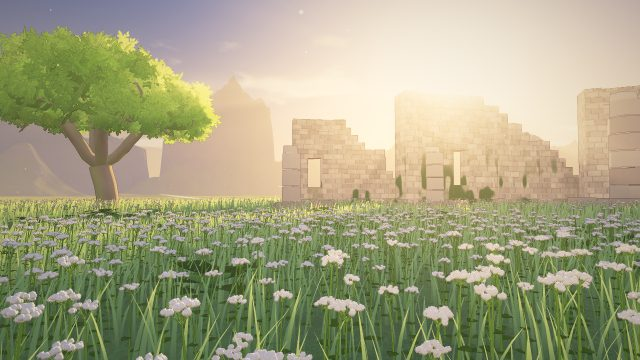
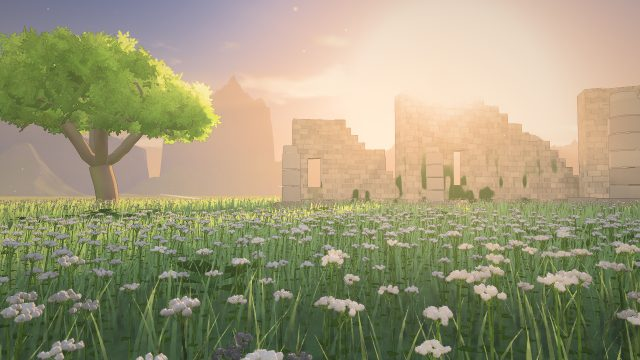
Match TotK's Hateno: measured palette, ambient occlusion, cooler daylight
Sampled against TotK screenshots (lit plaster ~(230,215,192) sat 0.1-0.2,
roofs pale peach ~(220,190,160), limestone near white, frame mean
(0.58,0.65,0.56)) our village was saturated ochre, dark terracotta, brown
stone, and yellow overall (0.57,0.56,0.47).

- Palette: cream lime-wash, pale salmon-to-peach clay tiles in 50cm courses
  (texture and geometry), near-white limestone, grey-brown timber, slate
  shutters, cream yard walls; softer weathering.
- Screen-space ambient occlusion (half resolution, depth-only SAO with a
  depth-aware blur; grass receives but does not cast; weaker in shade);
  m.env({ ao }), off on phones.
- Highlight shoulder on the brightest channel (keeps a sunlit wall's hue
  instead of squeezing it to white), slightly lifted toon blacks, cooler
  teal shade tint.
- Village scene: near-noon light, cyan haze, greener lawns, bushes along
  the ledges; overview thumbnails regenerated. Field reference scenes stay
  within 0.07 of BotW in darks.

Claude-Session: https://claude.ai/code/session_01ErwcWZg1wdM3uMZg5iqckh

diff --git a/src/render/post.js b/src/render/post.js
@@ -1,4 +1,5 @@
-// Post: outlines, bloom, screen-space god rays toward the sun, highlight shoulder, split-tone grade and vignette.
+// Post: ambient occlusion, outlines, bloom, screen-space god rays toward the sun, highlight shoulder, split-tone grade
+// and vignette.
 // Scene alpha: 0 sky, 0.5 grass (no outline), 1 everything else.
 import * as THREE from 'three';
 import { clamp, smooth } from '../core/math.js';
@@ -21,6 +22,7 @@ export function createPost(renderer, scene, camera) {
   rtScene.depthTexture = depth24(renderer);
   A2C.value = rtScene.samples > 0 ? 1 : 0;
   const rtA = new THREE.WebGLRenderTarget(4, 4, { type, depthBuffer: false }), rtB = new THREE.WebGLRenderTarget(4, 4, { type, depthBuffer: false }), rtC = new THREE.WebGLRenderTarget(4, 4, { type, depthBuffer: false });
+  const rtAO = new THREE.WebGLRenderTarget(4, 4, { depthBuffer: false }), rtAO2 = new THREE.WebGLRenderTarget(4, 4, { depthBuffer: false });
   const qCam = new THREE.OrthographicCamera(-1, 1, 1, -1, 0, 1), qScene = new THREE.Scene(), quad = new THREE.Mesh(new THREE.PlaneGeometry(2, 2));
   quad.frustumCulled = false; qScene.add(quad);
   const vs = `varying vec2 vUv; void main(){ vUv = uv; gl_Position = vec4(position.xy, 0.0, 1.0); }`;
@@ -32,6 +34,46 @@ void main(){ vec3 s = texture2D(tSrc, vUv).rgb * 0.227;
   s += (texture2D(tSrc, vUv + uDir * 1.385).rgb + texture2D(tSrc, vUv - uDir * 1.385).rgb) * 0.316;
   s += (texture2D(tSrc, vUv + uDir * 3.231).rgb + texture2D(tSrc, vUv - uDir * 3.231).rgb) * 0.070;
   gl_FragColor = vec4(s, 1.0); }`, { tSrc: { value: null }, uDir: { value: new THREE.Vector2() } });
+  // Ambient occlusion (m.env ao), at half resolution: what grounds things — the dark under the eaves, where a wall meets
+  // the grass, around a barrel's foot, between houses. Scalable-ambient-obscurance style: each pixel's view-space
+  // position and normal come from the depth buffer (the normal from the neighbour on the nearer side, so silhouettes
+  // do not smear it); 12 taps on a spiral over a disc of uRadius metres projected to the screen, rotated per pixel,
+  // each occluding by how far it rises over the tangent plane, falling off with distance. Grass (scene alpha 0.5)
+  // takes occlusion but casts none (its blades would grey every meadow); the sky gets none.
+  const LIN = `uniform vec2 uNF; float linZ(float d) { return uNF.x * uNF.y / (uNF.y - d * (uNF.y - uNF.x)); }`;
+  const ao = M(`uniform sampler2D tDepth; uniform sampler2D tScene; uniform vec2 uTan; uniform vec2 uRes; uniform float uRadius; varying vec2 vUv;
+${LIN}
+vec3 viewPos(vec2 uv) { float z = linZ(texture2D(tDepth, uv).r); return vec3((uv * 2.0 - 1.0) * uTan * z, -z); }
+void main(){
+  if (texture2D(tDepth, vUv).r >= 0.99999 || texture2D(tScene, vUv).a < 0.25) { gl_FragColor = vec4(1.0); return; }
+  vec2 px = 1.0 / uRes;
+  vec3 P = viewPos(vUv), pr = viewPos(vUv + vec2(px.x, 0.0)), pl = viewPos(vUv - vec2(px.x, 0.0)), pu = viewPos(vUv + vec2(0.0, px.y)), pd = viewPos(vUv - vec2(0.0, px.y));
+  vec3 dx = abs(pr.z - P.z) < abs(P.z - pl.z) ? pr - P : P - pl, dy = abs(pu.z - P.z) < abs(P.z - pd.z) ? pu - P : P - pd;
+  vec3 N = normalize(cross(dx, dy));
+  float z = -P.z, rpx = clamp(uRadius * uRes.y / (2.0 * uTan.y * z), 1.5, 90.0);
+  float ang = 6.2831 * fract(52.9829189 * fract(dot(gl_FragCoord.xy, vec2(0.06711056, 0.00583715)))), occ = 0.0;
+  for (int i = 0; i < 12; i++) {
+    float t = (float(i) + 0.5) / 12.0, a = ang + float(i) * 2.3998;   // golden-angle spiral
+    vec2 uv = vUv + vec2(cos(a), sin(a)) * sqrt(t) * rpx * px;
+    if (texture2D(tScene, uv).a < 0.75) continue;
+    vec3 v = viewPos(uv) - P; float vv = dot(v, v);
+    occ += max(0.0, dot(v, N) - 0.01 * z) / (vv + 0.02) * max(0.0, 1.0 - vv / (uRadius * uRadius));
+  }
+  float k = clamp(1.0 - occ * uRadius / 12.0 * 2.8, 0.0, 1.0);
+  gl_FragColor = vec4(vec3(mix(k, 1.0, smoothstep(80.0, 160.0, z))), 1.0);
+}`, { tDepth: { value: rtScene.depthTexture }, tScene: { value: null }, uNF: { value: new THREE.Vector2(0.2, 4000) }, uTan: { value: new THREE.Vector2() }, uRes: { value: new THREE.Vector2() }, uRadius: { value: 1.4 } });
+  // depth-aware blur of the occlusion: neighbours at a very different depth (another object) do not mix in
+  const aoBlur = M(`uniform sampler2D tSrc; uniform sampler2D tDepth; uniform vec2 uDir; varying vec2 vUv;
+${LIN}
+void main(){
+  float z0 = linZ(texture2D(tDepth, vUv).r), s = 0.0, w = 0.0;
+  for (int i = -4; i <= 4; i++) {
+    vec2 uv = vUv + uDir * float(i);
+    float wt = exp(-float(i * i) / 10.0) * exp(-abs(linZ(texture2D(tDepth, uv).r) - z0) / (0.03 * z0 + 0.05));
+    s += texture2D(tSrc, uv).r * wt; w += wt;
+  }
+  gl_FragColor = vec4(vec3(s / max(w, 1e-4)), 1.0);
+}`, { tSrc: { value: null }, tDepth: { value: rtScene.depthTexture }, uNF: { value: new THREE.Vector2(0.2, 4000) }, uDir: { value: new THREE.Vector2() } });
   // radial march toward the sun over sky pixels (alpha 0) that are bright
   const rays = M(`uniform sampler2D tSrc; uniform vec2 uSun; varying vec2 vUv;
 void main(){ vec2 d = (uSun - vUv) / 40.0, uv = vUv; float illum = 1.0, sum = 0.0;
@@ -40,7 +82,7 @@ void main(){ vec2 d = (uSun - vUv) / 40.0, uv = vUv; float illum = 1.0, sum = 0.
   // uGlare: sun colour x strength x facing; the veil is scaled by how much sky is visible right at the sun
   const comp = M(`uniform sampler2D tScene; uniform sampler2D tBloom; uniform sampler2D tRays; uniform vec3 uRay; uniform float uBloom;
 uniform vec3 uGlare; uniform vec2 uSunUV; uniform float uAspect; varying vec2 vUv;
-uniform sampler2D tDepth; uniform vec2 uNF; uniform vec2 uPx; uniform float uOutline; uniform float uToon;
+uniform sampler2D tDepth; uniform vec2 uNF; uniform vec2 uPx; uniform float uOutline; uniform float uToon; uniform sampler2D tAO; uniform float uAO;
 float linZ(float d) { return uNF.x * uNF.y / (uNF.y - d * (uNF.y - uNF.x)); }
 // outlines (m.env outline), the drawn-line half of the anime look: a pixel whose neighbour lies well behind it
 // (a jump of more than ~5% of its distance, or the sky) is on a silhouette, and takes a darker, slightly cool
@@ -56,10 +98,21 @@ vec3 outline(vec3 c) {
   }
   return mix(c, c * vec3(0.5, 0.47, 0.55), e * uOutline * (1.0 - smoothstep(60.0, 160.0, z0)));
 }
-// soft highlight roll-off from 0.7: skies and sunlit tops keep their colour instead of clipping to white
-vec3 shoulder(vec3 c){ vec3 k = 0.7 + 0.3 * (1.0 - exp(-(c - 0.7) / 0.3)); return mix(c, k, step(0.7, c)); }
+// soft highlight roll-off from 0.7, on the brightest channel with the others scaled alike, so a sunlit cream wall or
+// peach roof keeps its hue instead of being squeezed toward white channel by channel; only the very brightest (the
+// sun's glare, specular) drift to white
+vec3 shoulder(vec3 c){
+  float m = max(max(c.r, c.g), c.b);
+  if (m <= 0.7) return c;
+  float k = 0.7 + 0.3 * (1.0 - exp(-(m - 0.7) / 0.3));
+  return mix(c * (k / m), vec3(k), smoothstep(0.95, 1.9, m) * 0.75);
+}
 void main(){
-  vec3 c = outline(texture2D(tScene, vUv).rgb) + texture2D(tBloom, vUv).rgb * uBloom + texture2D(tRays, vUv).rgb * uRay;
+  // occlusion bites most where the light is open sky and sun (a cast shadow is already dark: darkening it again
+  // would crush the lifted shade the toon look keeps)
+  vec3 sc = texture2D(tScene, vUv).rgb;
+  sc *= mix(1.0, texture2D(tAO, vUv).r, uAO * (0.35 + 0.65 * smoothstep(0.08, 0.45, dot(sc, vec3(0.299, 0.587, 0.114)))));
+  vec3 c = outline(sc) + texture2D(tBloom, vUv).rgb * uBloom + texture2D(tRays, vUv).rgb * uRay;
   if (uGlare.r + uGlare.g + uGlare.b > 0.001) {
     float vis = 0.0;
     for (int i = 0; i < 5; i++) { float a = float(i) * 1.2566; vis += step(texture2D(tScene, clamp(uSunUV + vec2(cos(a), sin(a)) * 0.012 * float(i > 0), 0.002, 0.998)).a, 0.25); }
@@ -67,7 +120,7 @@ void main(){
     c += uGlare * (vis / 5.0) * (exp(-r2 * 5.0) * 0.32 + exp(-r2 * 45.0) * 0.45);
   }
   c = shoulder(max(c, 0.0));
-  c = c * (1.0 - 0.07 * uToon) + vec3(0.06, 0.065, 0.075) * uToon;   // toon: lifted, slightly cool blacks, as in BotW's airy frames
+  c = c * (1.0 - 0.09 * uToon) + vec3(0.075, 0.082, 0.09) * uToon;   // toon: lifted, slightly cool blacks, as in BotW's airy frames
   float l = dot(c, vec3(0.299, 0.587, 0.114));
   c = mix(vec3(l), c, 0.97 + 0.1 * uToon);   // toon: a touch more colour, so the lifted blacks do not wash it out
   c = mix(c * vec3(0.93, 0.98, 1.07), c, smoothstep(0.05, 0.5, l));
@@ -76,16 +129,28 @@ void main(){
   gl_FragColor = vec4(clamp(c, 0.0, 1.0), 1.0);
 }`, { tScene: { value: null }, tBloom: { value: null }, tRays: { value: null }, uRay: { value: new THREE.Vector3() }, uBloom: { value: 0.28 },
     uGlare: { value: new THREE.Vector3() }, uSunUV: { value: new THREE.Vector2() }, uAspect: { value: 1 },
-    tDepth: { value: rtScene.depthTexture }, uNF: { value: new THREE.Vector2(0.2, 4000) }, uPx: { value: new THREE.Vector2() }, uOutline: { value: 0 }, uToon: U.uToon });
+    tDepth: { value: rtScene.depthTexture }, uNF: { value: new THREE.Vector2(0.2, 4000) }, uPx: { value: new THREE.Vector2() }, uOutline: { value: 0 }, uToon: U.uToon,
+    tAO: { value: rtAO.texture }, uAO: { value: 0 } });
   const size = new THREE.Vector2(), sunScreen = new THREE.Vector3(), camDir = new THREE.Vector3();
   function resize() {
     renderer.getDrawingBufferSize(size);
     rtScene.setSize(size.x, size.y);
+    rtAO.setSize(Math.max(1, size.x >> 1), Math.max(1, size.y >> 1)); rtAO2.setSize(Math.max(1, size.x >> 1), Math.max(1, size.y >> 1));
     rtA.setSize(Math.max(1, size.x >> 2), Math.max(1, size.y >> 2)); rtB.setSize(Math.max(1, size.x >> 2), Math.max(1, size.y >> 2)); rtC.setSize(Math.max(1, size.x >> 2), Math.max(1, size.y >> 2));
   }
   function pass(mat, target) { quad.material = mat; renderer.setRenderTarget(target); renderer.render(qScene, qCam); }
   function render() {
     renderer.setRenderTarget(rtScene); renderer.render(scene, camera);
+    const aoOn = rtScene.depthTexture && U.uAO.value > 0.001 && !isSmall;   // phones skip it (two extra half-size passes)
+    comp.uniforms.uAO.value = aoOn ? U.uAO.value : 0;
+    if (aoOn) {
+      const t = Math.tan(camera.fov * Math.PI / 360);
+      ao.uniforms.uNF.value.set(camera.near, camera.far); aoBlur.uniforms.uNF.value.set(camera.near, camera.far);
+      ao.uniforms.uTan.value.set(t * camera.aspect, t); ao.uniforms.uRes.value.set(rtAO.width, rtAO.height); ao.uniforms.tScene.value = rtScene.texture;
+      pass(ao, rtAO);
+      aoBlur.uniforms.tSrc.value = rtAO.texture; aoBlur.uniforms.uDir.value.set(1 / rtAO.width, 0); pass(aoBlur, rtAO2);
+      aoBlur.uniforms.tSrc.value = rtAO2.texture; aoBlur.uniforms.uDir.value.set(0, 1 / rtAO.height); pass(aoBlur, rtAO);
+    }
     bright.uniforms.tSrc.value = rtScene.texture; pass(bright, rtA);
     for (let i = 0; i < 2; i++) {
       blur.uniforms.tSrc.value = rtA.texture; blur.uniforms.uDir.value.set((1 + i * 1.5) / rtA.width, 0); pass(blur, rtB);

diff --git a/src/objects/buildings.js b/src/objects/buildings.js
@@ -30,10 +30,12 @@ import { MB, V3, sliceGrid, warp } from './mesh-builder.js';
 import { Poly, bake, emit } from './poly/index.js';
 
 const C = hex => new THREE.Color(hex);
-const STONE = C('#bfae92'), TIMBER = C('#5e4532'), TIMBER_L = C('#86664a'), IRON = C('#33312e'), GLOW = C('#ffd9a0');
+// palette from TotK's Hateno (sampled from screenshots): near-white limestone, grey-brown timber
+const STONE = C('#e0dac8'), TIMBER = C('#5c4a3d'), TIMBER_L = C('#8b7563'), IRON = C('#33312e'), GLOW = C('#ffd9a0');
 const TILE_C = C('#ffffff'), THATCH_C = C('#ffffff'), SHINGLE_T = [C('#c49a7a'), C('#8a95a6'), C('#a57d64')];
-const WASH = { hateno: ['#e6c47e', '#edd49c', '#ecd8b0', '#e4bf8c', '#ddb56c', '#f1e7d0'], stone: ['#c4b49a'], timber: ['#f2ece0'], hut: ['#a8957c'] };
-const SHUTTER = [C('#4e6a58'), C('#53708e'), C('#6c533f'), C('#5d7448'), C('#7d4b43')];
+// lime-washed plaster: cream to warm white, the odd older ochre house (BotW's Hateno)
+const WASH = { hateno: ['#f3e5cf', '#f5ebdb', '#efe0c8', '#f7efe3', '#eedcc0', '#f1e2c9'], stone: ['#d2c8b4'], timber: ['#f4efe4'], hut: ['#b3a38c'] };
+const SHUTTER = [C('#667a8a'), C('#5d7482'), C('#6f6457'), C('#677a68'), C('#7c6a62')];   // weathered slate blues and greys
 const BANNER = [C('#a3456b'), C('#5f7f3f'), C('#3f5f8f'), C('#b0703a')];
 const BLOOM = [C('#ee7a2a'), C('#d8402f'), C('#e8c33a'), C('#e070a0'), C('#f2efe6')];
 const POT = [C('#3f8f8a'), C('#4f7fa0'), C('#a0603f'), C('#b8653f')];
@@ -618,7 +620,7 @@ function buildBlock(ctx, B, bi, R) {
       const ax = dAl.clone(), dn = V3(dO.x * Math.cos(tilt), -Math.sin(tilt), dO.z * Math.cos(tilt)), up = ax.clone().cross(dn).negate();
       const cc = onWall(doorFace, doorA, cy, 0).addScaledVector(dn, cd / 2);
       obox(mb, cc, ax, up, dn, cw, 0.07, cd, TIMBER_L, 7);
-      if (roof === 'tile') obox(mb, cc.clone().addScaledVector(up, 0.07), ax, up, dn, cw + 0.1, 0.07, cd + 0.08, C('#d9845c'), 0);
+      if (roof === 'tile') obox(mb, cc.clone().addScaledVector(up, 0.07), ax, up, dn, cw + 0.1, 0.07, cd + 0.08, C('#e2a486'), 0);
       for (const s of [-1, 1]) beam(mb, onWall(doorFace, doorA + s * (cw / 2 - 0.15), cy - 0.55, 0.02), onWall(doorFace, doorA + s * (cw / 2 - 0.15), cy - 0.2, cd - 0.15), 0.07, TIMBER);
     }
     ud.door = (() => { const p = onWall(doorFace, doorA, 0, 1.3); return [p.x, p.z]; })();
@@ -770,7 +772,7 @@ function roofOf(ctx, B, d) {
   // length; x0 offset of the plane's centre along ax (gable planes are not trimmed)
   const plane = (top, dn, ax, n, half, sl) => {
     if (roof === 'tile' && lod === 0) {
-      const pc = 2 / 6, lip = 0.06, nC = Math.ceil(sl / pc - 0.05);
+      const pc = 2 / 4, lip = 0.08, nC = Math.ceil(sl / pc - 0.05);   // one course per texture row (texgen TILE: 4 per 2m)
       const at = (u, t, up) => top.clone().addScaledVector(ax, u).addScaledVector(dn, t).addScaledVector(n, up);
       for (let k = 0; k < nC; k++) {
         const t0 = k * pc, t1 = Math.min(sl, (k + 1) * pc), up = k === nC - 1 ? 0 : lip, h0 = half(t0), h1 = half(t1);
@@ -797,11 +799,11 @@ function roofOf(ctx, B, d) {
     if (lod !== 0 || thatch) return;
     const R = RT;
     const ax = Bp.clone().sub(A), Ln = ax.length(); ax.divideScalar(Ln);
-    const k = Math.max(1, Math.round(Ln / 0.4)), w = Ln / k, side = out.clone().normalize(), up = n.clone();
+    const k = Math.max(1, Math.round(Ln / 0.5)), w = Ln / k, side = out.clone().normalize(), up = n.clone();
     for (let i = 0; i < k; i++) {
       const hang = 0.02 + R() * 0.06, c = A.clone().addScaledVector(ax, (i + 0.5) * w).addScaledVector(side, hang - 0.14).addScaledVector(up, 0.025 + R() * 0.012);
       const tilt = (R() - 0.5) * 0.12, a1 = ax.clone().applyAxisAngle(up, tilt), a3 = up.clone().cross(a1).normalize();
-      const col = (roof === 'tile' ? C('#c9704c') : rc).clone().multiplyScalar(0.9 + R() * 0.25);
+      const col = (roof === 'tile' ? C('#dc9c7e') : rc).clone().multiplyScalar(0.9 + R() * 0.25);
       withChamfer(false, () => obox(mb, c, a1, up, a3.dot(side) > 0 ? a3 : a3.negate(), w * (0.92 + R() * 0.06), 0.035, 0.32, col, 0));   // too thin to chamfer
     }
   };
@@ -842,7 +844,7 @@ function roofOf(ctx, B, d) {
       // boards up the two hips, capped with ridge tiles
       for (const sz of [1, -1]) {
         const A = V3(sx * rx, ridgeTop - 0.02, 0), Bp = V3(sx * (hx + ov), eaveU + (td + tt) / cp, sz * (hz + ov));
-        beam(mb, A, Bp, 0.16 * trim, roof === 'tile' ? C('#c06a48') : rc.clone().multiplyScalar(0.9), roof === 'tile' ? 0 : rCard, V3(0, 1, 0), 0.12 * trim);
+        beam(mb, A, Bp, 0.16 * trim, roof === 'tile' ? C('#d29274') : rc.clone().multiplyScalar(0.9), roof === 'tile' ? 0 : rCard, V3(0, 1, 0), 0.12 * trim);
       }
     }
   } else {
@@ -987,7 +989,7 @@ const LEAF_D = C('#3f6e2a');
 function attachments(ctx, B, d) {
   const { P, mb, lod, yB } = ctx, { y0, doorFace, door, onWall, outN, alongV, len, ud } = d;
   const RA = mulberry32(ctx.seed * 31 + 211), doorA = P.doorA, roofTile = B.roof === 'tile';
-  const tile = C('#c9704c'), plank = TIMBER_L, dark = TIMBER;
+  const tile = C('#dc9c7e'), plank = TIMBER_L, dark = TIMBER;
   const ground = -P.steps;   // the ground at the door (a flight of steps when the house stands up on its base)
   // ivy leaves along a run of wall or timber: small overlapping leaf quads facing out, darker inside the clump; a
   // farther level keeps every second (or fourth) leaf, larger, so the clump keeps its shape and tone

diff --git a/src/render/props.js b/src/render/props.js
@@ -126,37 +126,37 @@ void main(){
         float fq = 1.0 - smoothstep(0.04, 0.12, max(fwidth(wq.x), fwidth(wq.y)));
         float bn = vnoise(wq * 0.32 + 17.0) * 0.6 + vnoise(wq * 0.95 + 4.0) * 0.28 + vnoise(wq * 3.2) * 0.12 * fq;
         float blot = smoothstep(0.555, 0.585, bn), rimB = smoothstep(0.53, 0.555, bn) - blot;
-        ta.rgb *= mix(vec3(1.0), vec3(0.92, 0.87, 0.78), blot) * (1.0 - 0.07 * rimB) * (1.0 + 0.05 * smoothstep(0.66, 0.72, 1.0 - bn));
+        ta.rgb *= mix(vec3(1.0), vec3(0.95, 0.92, 0.86), blot) * (1.0 - 0.05 * rimB) * (1.0 + 0.04 * smoothstep(0.66, 0.72, 1.0 - bn));
         float gh = 0.3 + 0.55 * vnoise(vec2(wq.x * 0.6, 3.3)) + 0.2 * vnoise(wq * vec2(2.5, 1.0));
-        ta.rgb *= mix(vec3(1.0), vec3(0.8, 0.75, 0.64), (1.0 - smoothstep(gh - 0.4, gh + 0.05, hb)) * 0.85);
+        ta.rgb *= mix(vec3(1.0), vec3(0.84, 0.82, 0.74), (1.0 - smoothstep(gh - 0.4, gh + 0.05, hb)) * 0.8);
         float dd = vSw > 0.5 ? vSw - 1.0 : 2.5;
         float stN = vnoise(vec2(wq.x * 3.3, wq.y * 0.35) + 1.3) * 0.65 + vnoise(vec2(wq.x * 10.0, wq.y * 0.8) + 6.1) * 0.35 * fq;
         float streak = smoothstep(0.38, 0.78, stN) * exp(-dd * 0.85) * (0.55 + 0.45 * fq);
-        ta.rgb *= mix(vec3(1.0), vec3(0.74, 0.73, 0.68), streak);
+        ta.rgb *= mix(vec3(1.0), vec3(0.82, 0.82, 0.78), streak);
         ta.rgb *= 1.0 + 0.07 * (1.0 - smoothstep(0.0, 0.03 + aw, d)) * step(0.0, d);       // the plaster's lit edge
         if (bare > 0.001) {
-          ra.rgb *= vec3(0.78, 0.73, 0.64) / max(vC, vec3(0.05)) * (1.0 - 0.4 * smoothstep(-0.06, 0.0, d) * step(d, 0.0));
+          ra.rgb *= vec3(0.93, 0.91, 0.85) / max(vC, vec3(0.05)) * (1.0 - 0.4 * smoothstep(-0.06, 0.0, d) * step(d, 0.0));
           ta = mix(ta, ra, bare); tn = mix(tn, rn, bare);
         }
       }
     }
     if (vCard > 8.5 && vCard < 9.5) {
       // clay tiles: the texture repeats every 2m, so each tile also gets its own shade here (the same tile lattice as
-      // texgen's TILE: 6 courses × 5 tiles, rows offset by the same hash) — the odd bright replacement and dark old
+      // texgen's TILE: 4 courses × 4 tiles, rows offset by the same hash) — the odd bright replacement and dark old
       // one — while the tiles resolve; over the roof, sun-bleached and darker patches, and moss low on the slope
-      vec2 tu = vUV * 0.5; float rr = floor(tu.y * 6.0);
-      float xx = tu.x * 5.0 + mod(rr, 2.0) * 0.5 + floor(hash12(vec2(mod(rr, 6.0), 7.0)) * 3.0) / 6.0;
+      vec2 tu = vUV * 0.5; float rr = floor(tu.y * 4.0);
+      float xx = tu.x * 4.0 + mod(rr, 2.0) * 0.5 + floor(hash12(vec2(mod(rr, 4.0), 7.0)) * 3.0) / 6.0;
       vec2 cid = vec2(floor(xx), rr); float t1 = hash12(cid + 41.3), t2 = hash12(cid + 13.7);
-      float tf = 1.0 - smoothstep(0.2, 0.5, max(fwidth(xx), fwidth(tu.y * 6.0)));
-      vec3 tint = vec3(1.0 + (t1 - 0.5) * 0.24 * tf);
-      tint *= mix(vec3(1.0), vec3(1.14, 1.0, 0.84), step(0.95, t2) * tf);
-      tint *= mix(vec3(1.0), vec3(0.7, 0.66, 0.64), step(0.93, t1) * tf * 0.8);
+      float tf = 1.0 - smoothstep(0.2, 0.5, max(fwidth(xx), fwidth(tu.y * 4.0)));
+      vec3 tint = vec3(1.0 + (t1 - 0.5) * 0.2 * tf);
+      tint *= mix(vec3(1.0), vec3(1.06, 0.98, 0.9), step(0.95, t2) * tf);
+      tint *= mix(vec3(1.0), vec3(0.82, 0.8, 0.8), step(0.94, t1) * tf * 0.8);
       vec2 wp = vSP.xz;
       tint *= mix(vec3(0.86, 0.85, 0.86), vec3(1.07, 1.03, 0.97), vnoise(wp * 0.22 + 2.0) * 0.7 + vnoise(wp * 0.8) * 0.3);
       // moss in clumps, lower on the slope, sitting in the shade under each tile's lip
       float moss = smoothstep(0.64, 0.78, vnoise(wp * 0.9 + 9.1) * 0.6 + vnoise(wp * 3.1 + 3.3) * 0.4 + 0.2 * smoothstep(1.0, 4.0, vUV.y) - 0.08);
       moss *= 0.35 + 0.65 * smoothstep(0.75, 0.35, tn.w);
-      ta.rgb = mix(ta.rgb * tint, vec3(0.42, 0.46, 0.25) * (0.8 + 0.4 * tn.w), moss * 0.5);
+      ta.rgb = mix(ta.rgb * tint, vec3(0.6, 0.62, 0.42) * (0.8 + 0.4 * tn.w), moss * 0.4);
     } else if (vCard > 6.5 && vCard < 7.5) {
       // timber greys in patches where it weathers
       float l = dot(ta.rgb, vec3(0.3, 0.59, 0.11));

diff --git a/src/runtime/schema.js b/src/runtime/schema.js
@@ -62,6 +62,7 @@ export const SCHEMA = {
     clouds: [NUM, 0.5, '云量 0–1'], glare: [NUM, 1, '太阳眩光强度'],
     toon: [NUM, 0.8, '卡通渲染强度 0–1：明暗分成柔和的两阶、暗部提亮并偏冷保留固有色（旷野之息 / 原神式的“3渲2”质感）；0 是连续的写实明暗'],
     outline: [NUM, 0.6, '描边强度 0–1：物体轮廓画一圈深色线（按深度跳变检测，远处淡出，草不描边）；0 关闭'],
+    ao: [NUM, 0.75, '环境光遮蔽强度 0–1：屋檐下、墙脚、物件和地面接触处、房屋之间变暗（屏幕空间，按深度估算，远处淡出）；0 关闭'],
     snowLine: [NUM, 170, '雪线，米'], streaks: [BOOL, true, '风痕'], pollen: [BOOL, true, '飞絮'],
     rock: [STR, null, '岩石主色（十六进制）：#d6d2c6 灰白石灰岩 · #b4876a 红砂岩 · 缺省 #977d69 暖灰褐'],
     grass: [OBJ, null, '{root,mid,tipA,tipB} 十六进制'], water: [OBJ, null, '{shallow,deep}'] } },
@@ -118,7 +119,7 @@ export const SIGS = {
   scatter: 'm.scatter(kind, { count, area, rules, scale, minSpacing, cluster, seed })  → { placed, requested, rejected, positions }',
   place: 'm.place(kind, x, z, { scale, rotation, variant })  → { x, y, z }',
   grass: 'm.grass({ center, radius, density, height, rules })',
-  env: 'm.env({ time, wind, windDir, fogDensity, haze, hazeFar, valleyFog, clouds, glare, toon, outline, snowLine, streaks, pollen, rock, grass, water })',
+  env: 'm.env({ time, wind, windDir, fogDensity, haze, hazeFar, valleyFog, clouds, glare, toon, outline, ao, snowLine, streaks, pollen, rock, grass, water })',
   village: 'm.village({ center, radius, houses, style, gaps, roads, plaza, fields, fences, lanterns, props, trees, windmill, lawn, landmarks, seed })',
   building: 'm.building(x, z, { style, rotation, front, width, depth, floors, roof, roofShape, pitch, chimney, tower, towerShape, wings, dormers, pergola, deck, lean, sign, ivy, laundry, warp, banner, porch, tint, flatten, seed })',
   fence: 'm.fence(path, { style, gates })', field: 'm.field({ center, size, rotation, crop, fence, seed })',

diff --git a/src/render/texgen.js b/src/render/texgen.js
@@ -164,7 +164,7 @@ void main(){
 const TILE = /* glsl */`
 void main(){
   vec2 uv = vUv;
-  float rows = 6.0, cols = 5.0, r = floor(uv.y * rows), fy = fract(uv.y * rows);   // big chunky tiles, as on Hateno's roofs
+  float rows = 4.0, cols = 4.0, r = floor(uv.y * rows), fy = fract(uv.y * rows);   // big chunky tiles (50cm), as on TotK's Hateno roofs
   float x = uv.x * cols + mod(r, 2.0) * 0.5 + floor(h12(vec2(mod(r, rows), 7.0)) * 3.0) / 6.0, cx = floor(x), fx = fract(x);
   vec2 cell = vec2(mod(cx, cols), mod(r, rows));
   float id = h12(cell + 3.1), id2 = h12(cell + 9.7), id3 = h12(cell + 5.3);
@@ -175,10 +175,10 @@ void main(){
   float side = 1.0 - smoothstep(0.93, 0.99, abs(sx)), below = smoothstep(lower - 0.015, lower + 0.01, fy);
   float lip = smoothstep(lower - 0.2, lower - 0.04, fy) * (1.0 - below), under = smoothstep(0.0, 0.35, fy);
   float grain = pnoise(uv * 120.0, 120.0), spot = pfbm(uv * 14.0 + id, 14.0);
-  vec3 c = mix(vec3(0.7, 0.36, 0.24), vec3(0.88, 0.53, 0.36), id);                        // terracotta leaning orange
-  c = mix(c, vec3(0.52, 0.25, 0.19), step(0.86, id2) * 0.65);                             // over-fired
-  c = mix(c, vec3(0.9, 0.64, 0.5), step(0.9, id3) * 0.45);                                // sun-bleached
-  c = mix(c, vec3(0.52, 0.54, 0.34), smoothstep(0.64, 0.8, spot) * step(0.55, id2) * 0.5); // lichen
+  vec3 c = mix(vec3(0.84, 0.59, 0.47), vec3(0.93, 0.73, 0.61), id);                        // pale salmon to peach (TotK's sunbaked clay)
+  c = mix(c, vec3(0.7, 0.44, 0.36), step(0.88, id2) * 0.6);                               // over-fired
+  c = mix(c, vec3(0.97, 0.84, 0.72), step(0.88, id3) * 0.5);                              // sun-bleached
+  c = mix(c, vec3(0.7, 0.7, 0.5), smoothstep(0.64, 0.8, spot) * step(0.6, id2) * 0.4);    // lichen
   c *= (0.82 + 0.18 * under) * (1.0 + 0.08 * lip) * (0.93 + 0.12 * grain) * (1.0 + 0.08 * sx * (id3 - 0.5)) * (1.0 - 0.1 * sx * sx);   // each tile slightly curved across
   c = mix(c, c * 0.62, below);
   c = mix(c * vec3(0.45, 0.4, 0.38), c, side);

diff --git a/scenes/village.js b/scenes/village.js
@@ -39,10 +39,13 @@ defineScene((m) => {
   m.scatter('flower.buttercup', { count: 2600, area: m.ring(0, -8, 20, 140), rules: { slope: [0, 0.45], noise: { scale: 0.045, threshold: 0.55, seed: 6 } }, seed: 19 });
   m.scatter('reed', { count: 90, area: m.circle(-105, 20, 75), rules: { waterDist: [0.3, 3] }, minSpacing: 1.2, seed: 20 });
   m.scatter('rock.boulder', { count: 16, area: m.ring(0, -8, 60, 160), rules: { slope: [0.1, 0.7] }, scale: [0.6, 1.6], minSpacing: 10, seed: 21 });
+  // 岩台陡坎边上的灌木，打破陡坎平直的边（王国之泪的哈特诺村，坎边总长着灌木）
+  m.scatter('bush', { count: 60, area: m.circle(0, -8, 80), rules: { slope: [0.3, 1.4] }, minSpacing: 2.2, seed: 25 });
   m.grass({ center: [0, -8], radius: 175 });
 
-  // ── 环境：下午偏暖的阳光，空气里有点雾气 ──
-  m.env({ time: 0.74, wind: 0.3, fogDensity: 0.0034, haze: '#c2cfc6', hazeFar: 0.5, clouds: 0.5, snowLine: 330, rock: '#d2cfc4' });
+  // ── 环境：接近正午的阳光，空气通透、偏青（对着王国之泪的哈特诺村截图取的色） ──
+  m.env({ time: 0.62, wind: 0.3, fogDensity: 0.0034, haze: '#cfe2e0', hazeFar: 0.5, clouds: 0.5, snowLine: 330, rock: '#d2cfc4',
+    grass: { root: '#47693a', mid: '#6c9750', tipA: '#bccf8c', tipB: '#98bf6e' } });   // TotK's Hateno: cooler, greener lawns
 
   // ── 镜头：从生成结果里取位置 ──
   const road = v.roads[0].points, hs = v.houses, h0 = hs[0], h1 = hs[Math.min(2, hs.length - 1)];

diff --git a/src/objects/village-props.js b/src/objects/village-props.js
@@ -12,7 +12,7 @@ import { quad, box, beam, withChamfer } from './buildings.js';
 import { Poly, rect2, circle2, fillet2, withDetail } from './poly/index.js';
 
 const C = hex => new THREE.Color(hex);
-const WOOD = C('#a7825e'), WOOD_D = C('#6b4d36'), IRON = C('#3b3a38'), STONE = C('#b2a796'), GLOW = C('#ffd9a0'), PLASTER = C('#ecdcbc');
+const WOOD = C('#a7825e'), WOOD_D = C('#6b4d36'), IRON = C('#3b3a38'), STONE = C('#d8d1c0'), GLOW = C('#ffd9a0'), PLASTER = C('#ecdcbc');
 
 const geo = (mb, ud) => { const g = mb.geo(); g.userData = Object.assign({ colliders: [], lights: [], smoke: [] }, ud); return g; };
 
@@ -227,7 +227,7 @@ function stall(seed) {
 
 // yard wall (the low wall round TotK's chief's house): one 2.4m span of plastered wall with a softly rounded top;
 // its stucco frays here and there at the foot, showing the rubble inside, as on the houses
-const YARD_WASH = ['#efe2c6', '#ecd8b0', '#e9cf9f'];
+const YARD_WASH = ['#f3e6d0', '#f0e2c8', '#f5eadb'];   // the houses' lime-washed cream (buildings.js WASH)
 export const makeYardWall = (seed, lod = 0) => withDetail(lod, () => yardWall(seed));
 function yardWall(seed) {
   const R = mulberry32(seed), mb = new MB(), h = 0.95, t = 0.44, top = h - 0.15;

diff --git a/src/render/uniforms.js b/src/render/uniforms.js
@@ -18,7 +18,7 @@ export const U = {
   uHazeFar: { value: 0.45 }, uVFog: { value: new THREE.Vector3(0, 12, 0) }, uCloudCover: { value: 0.5 }, uGlare: { value: 1 },
   uNight: { value: 0 },   // 0 by day → 1 after sunset: lit windows, lanterns, point lights (src/render/time-of-day.js)
   // stylisation (m.env toon / outline, 0–1): banded light over a lifted, hue-shifted shade, and drawn outlines
-  uToon: { value: 0.8 }, uShadeTint: { value: new THREE.Color(0.93, 0.95, 1.1) }, uOutline: { value: 0.6 },
+  uToon: { value: 0.8 }, uShadeTint: { value: new THREE.Color(0.9, 0.97, 1.04) }, uOutline: { value: 0.6 }, uAO: { value: 0.75 },
   // the nearest lantern lights (xyz, radius; radius 0 = unused), lit after dusk (src/render/lights.js)
   uPL: { value: Array.from({ length: 12 }, () => new THREE.Vector4()) }, uPLColor: { value: new THREE.Color(1.0, 0.6, 0.28).multiplyScalar(1.7) }
 };

diff --git a/src/app/editor.js b/src/app/editor.js
@@ -133,7 +133,7 @@ export function createEditor(renderer, canvas) {
   function applyEnv(E) {
     atmosphere.fogOverride = E.fogDensity;
     atmosphere.haze = E.haze ? new THREE.Color(E.haze) : null;
-    U.uHazeFar.value = E.hazeFar; U.uCloudCover.value = E.clouds; U.uGlare.value = E.glare; U.uToon.value = E.toon; U.uOutline.value = E.outline;
+    U.uHazeFar.value = E.hazeFar; U.uCloudCover.value = E.clouds; U.uGlare.value = E.glare; U.uToon.value = E.toon; U.uOutline.value = E.outline; U.uAO.value = E.ao;
     const vf = E.valleyFog || {};
     U.uVFog.value.set(vf.height != null ? vf.height : 0, vf.thickness || 12, E.valleyFog ? (vf.density != null ? vf.density : 0.02) : 0);
     U.uWind.value = reduceMotion ? Math.min(E.wind, 0.25) : E.wind; U.uWindDir.value.set(E.windDir[0], E.windDir[1]).normalize();
